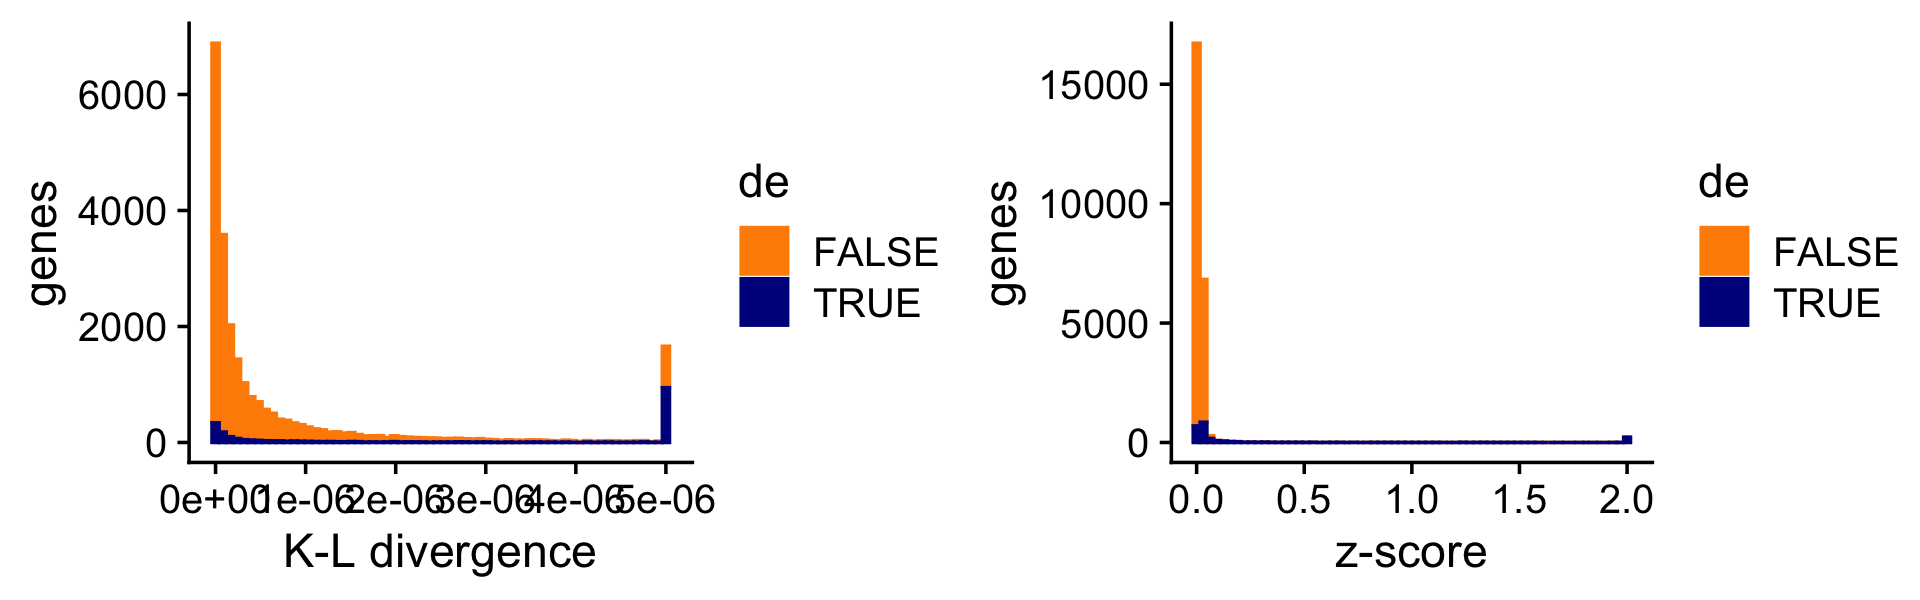
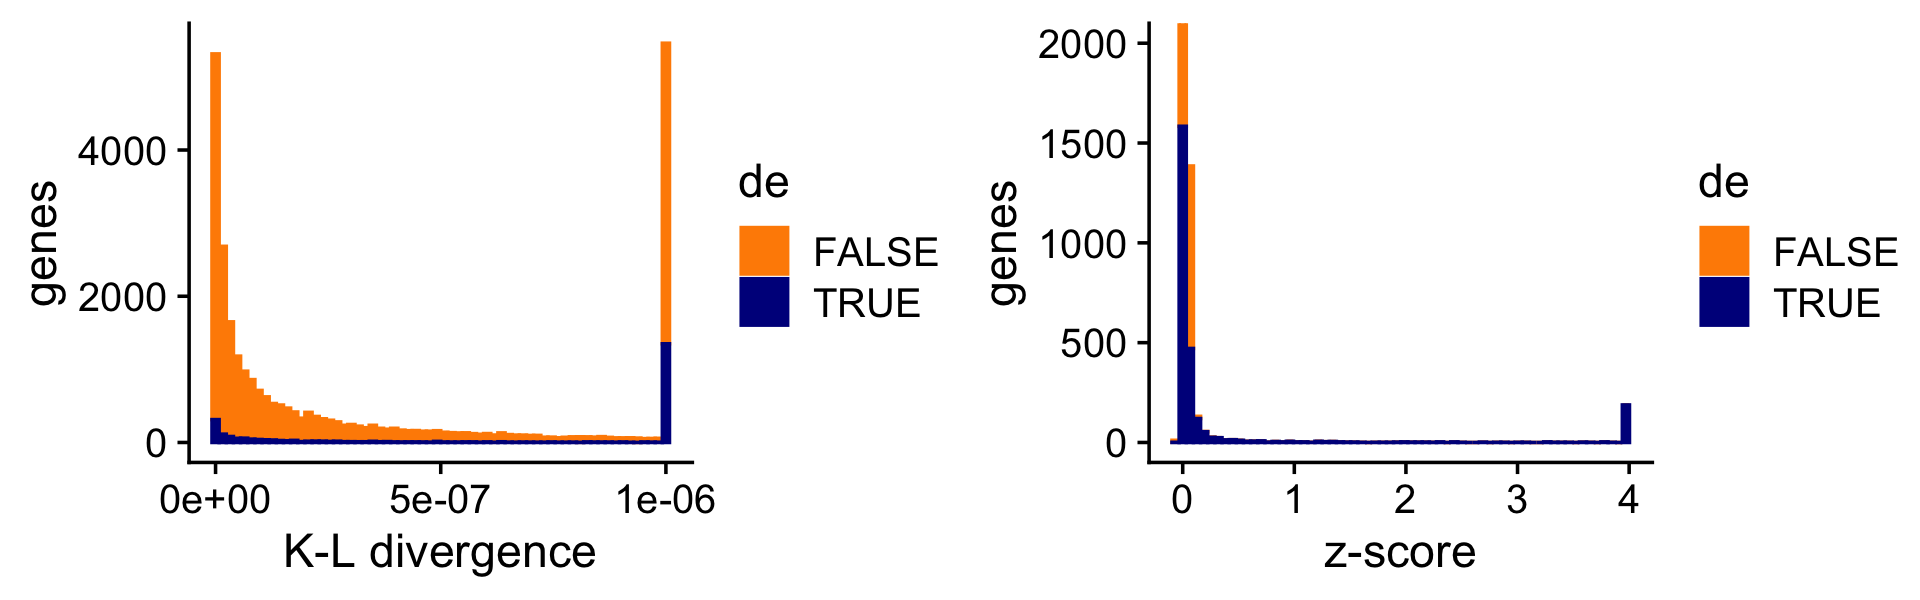
Fixed plots and added text to de_analysis_detailed_look_more analysis.

diff --git a/docs/de_analysis_detailed_look_more.html b/docs/de_analysis_detailed_look_more.html
@@ -426,16 +426,16 @@ fit-poisson-nmf
 <div class="panel panel-default">
 <div class="panel-heading">
 <p class="panel-title">
-<a data-toggle="collapse" data-parent="#workflowr-checks" href="#strongRepositoryversionstrongahrefhttpsgithubcomstephenslabsinglecelltopicstree503cca366a85e331949a323913caa7f4fd0f6515targetblank503cca3a"> <span class="glyphicon glyphicon-ok text-success" aria-hidden="true"></span> <strong>Repository version:</strong> <a href="https://github.com/stephenslab/single-cell-topics/tree/503cca366a85e331949a323913caa7f4fd0f6515" target="_blank">503cca3</a> </a>
+<a data-toggle="collapse" data-parent="#workflowr-checks" href="#strongRepositoryversionstrongahrefhttpsgithubcomstephenslabsinglecelltopicstreef746cb38c01345741ac11b701c409bf66da53902targetblankf746cb3a"> <span class="glyphicon glyphicon-ok text-success" aria-hidden="true"></span> <strong>Repository version:</strong> <a href="https://github.com/stephenslab/single-cell-topics/tree/f746cb38c01345741ac11b701c409bf66da53902" target="_blank">f746cb3</a> </a>
 </p>
 </div>
[2 lines of base64/hex data omitted]
 <div class="panel-body">
 <p>
 Great! You are using Git for version control. Tracking code development and connecting the code version to the results is critical for reproducibility.
 </p>
 <p>
-The results in this page were generated with repository version <a href="https://github.com/stephenslab/single-cell-topics/tree/503cca366a85e331949a323913caa7f4fd0f6515" target="_blank">503cca3</a>. See the <em>Past versions</em> tab to see a history of the changes made to the R Markdown and HTML files.
+The results in this page were generated with repository version <a href="https://github.com/stephenslab/single-cell-topics/tree/f746cb38c01345741ac11b701c409bf66da53902" target="_blank">f746cb3</a>. See the <em>Past versions</em> tab to see a history of the changes made to the R Markdown and HTML files.
 </p>
 <p>
 Note that you need to be careful to ensure that all relevant files for the analysis have been committed to Git prior to generating the results (you can use <code>wflow_publish</code> or <code>wflow_git_commit</code>). workflowr only checks the R Markdown file, but you know if there are other scripts or data files that it depends on. Below is the status of the Git repository when the results were generated:
@@ -499,6 +499,40 @@ Message
 </tr>
 </thead>
 <tbody>
+<tr>
+<td>
+Rmd
+</td>
+<td>
+<a href="https://github.com/stephenslab/single-cell-topics/blob/f746cb38c01345741ac11b701c409bf66da53902/analysis/de_analysis_detailed_look_more.Rmd" target="_blank">f746cb3</a>
+</td>
+<td>
+Peter Carbonetto
+</td>
+<td>
+2021-10-20
+</td>
+<td>
+workflowr::wflow_publish(“de_analysis_detailed_look_more.Rmd”)
+</td>
+</tr>
+<tr>
+<td>
+html
+</td>
+<td>
+<a href="https://rawcdn.githack.com/stephenslab/single-cell-topics/9d6104692d58c818b5d33f9f15a09630b59e7261/docs/de_analysis_detailed_look_more.html" target="_blank">9d61046</a>
+</td>
+<td>
+Peter Carbonetto
+</td>
+<td>
+2021-10-20
+</td>
+<td>
+Revised text and plots in de_analysis_detailed_look_more analysis.
+</td>
+</tr>
 <tr>
 <td>
 Rmd
@@ -745,7 +779,7 @@ de &lt;- de_analysis(fit,X,shrink.method = &quot;ash&quot;,control = list(ns = 1
 >knitr cache options</a> for more details.
 </p>
 </div>
-<p>To measure differential expression across multiple topics, we use the “least extreme” log-fold change, which, for topic <span class="math inline">\(k\)</span>, is defined as the LFC between topic <span class="math inline">\(k\)</span> and each other topic <span class="math inline">\(j \neq k\)</span> with a expression ratio closest to 1. Then we compare estimates of the “least extreme” LFCs with and without shrinkage.</p>
+<p>To measure differential expression across multiple topics, we use the “least extreme” log-fold change, which, for topic <span class="math inline">\(k\)</span>, is defined as the LFC between topic <span class="math inline">\(k\)</span> and <span class="math inline">\(j \neq k\)</span> such that the expression ratio is closest to 1. Then we compare estimates of the “least extreme” LFCs with and without shrinkage.</p>
 <p>As expected, smaller estimates, and estimates corresponding to genes with lower expression, tend to be more strongly shrunk toward zero.</p>
 <pre class="r"><code>pdat &lt;- data.frame(noshrink  = c(de.noshrink$postmean),
                    shrink    = c(de$postmean),
@@ -784,6 +818,17 @@ Date
 <tbody>
 <tr>
 <td>
+<a href="https://github.com/stephenslab/single-cell-topics/blob/9d6104692d58c818b5d33f9f15a09630b59e7261/docs/figure/de_analysis_detailed_look_more.Rmd/shrink-vs-noshrink-scatterplot-1.png" target="_blank">9d61046</a>
+</td>
+<td>
+Peter Carbonetto
+</td>
+<td>
+2021-10-20
+</td>
+</tr>
+<tr>
+<td>
 <a href="https://github.com/stephenslab/single-cell-topics/blob/36acb71112107faba6b3030aa762bc469fb2d51e/docs/figure/de_analysis_detailed_look_more.Rmd/shrink-vs-noshrink-scatterplot-1.png" target="_blank">36acb71</a>
 </td>
 <td>
@@ -811,7 +856,7 @@ pdat &lt;- data.frame(noshrink = clamp(c(de.noshrink$z),-4,+4),
                    de       = c(nonzero_lfc))
 p2 &lt;- ggplot(subset(pdat,de),aes(x = noshrink,color = de)) +
   geom_histogram(color = &quot;darkblue&quot;,fill = &quot;darkblue&quot;,bins = 64) +
-  coord_cartesian(xlim = c(-4,+4),,ylim = c(0,400)) +
+  coord_cartesian(xlim = c(-4,+4),ylim = c(0,400)) +
   labs(x = &quot;z-score&quot;,y = &quot;genes&quot;,title = &quot;without shrinkage&quot;) +
   theme_cowplot()
 p3 &lt;- ggplot(subset(pdat,de),aes(x = shrink,color = de)) +
@@ -853,6 +898,17 @@ Date
 </tr>
 </thead>
 <tbody>
+<tr>
+<td>
+<a href="https://github.com/stephenslab/single-cell-topics/blob/9d6104692d58c818b5d33f9f15a09630b59e7261/docs/figure/de_analysis_detailed_look_more.Rmd/shrink-vs-noshrink-zscores-1.png" target="_blank">9d61046</a>
+</td>
+<td>
+Peter Carbonetto
+</td>
+<td>
+2021-10-20
+</td>
+</tr>
 <tr>
 <td>
 <a href="https://github.com/stephenslab/single-cell-topics/blob/36acb71112107faba6b3030aa762bc469fb2d51e/docs/figure/de_analysis_detailed_look_more.Rmd/shrink-vs-noshrink-zscores-1.png" target="_blank">36acb71</a>
@@ -912,6 +968,17 @@ Date
 <tbody>
 <tr>
 <td>
+<a href="https://github.com/stephenslab/single-cell-topics/blob/9d6104692d58c818b5d33f9f15a09630b59e7261/docs/figure/de_analysis_detailed_look_more.Rmd/shrink-vs-noshrink-pvalues-1.png" target="_blank">9d61046</a>
+</td>
+<td>
+Peter Carbonetto
+</td>
+<td>
+2021-10-20
+</td>
+</tr>
+<tr>
+<td>
 <a href="https://github.com/stephenslab/single-cell-topics/blob/36acb71112107faba6b3030aa762bc469fb2d51e/docs/figure/de_analysis_detailed_look_more.Rmd/shrink-vs-noshrink-pvalues-1.png" target="_blank">36acb71</a>
 </td>
 <td>
@@ -925,15 +992,16 @@ Peter Carbonetto
 </table>
 </div>
 </div>
-<p>Both the <span class="math inline">\(z\)</span>-score and <span class="math inline">\(p\)</span>-value plots show that the adaptive shrinkage step more strongly encourages the LFC estimates for the non-DE genes toward zero, thereby improving overall accuracy.</p>
+<p>Since most of the LFCs are zero, the adaptiev shrinkage strongly shrinks most of the LFC estimates toward zero. Still, because it is adaptive, the DE genes with stronger support are shrunk only a little or not at all.</p>
 </div>
 <div id="quantifying-uncertainty-in-the-lfc-estimates" class="section level2">
 <h2>Quantifying uncertainty in the LFC estimates</h2>
-<p><em>Add text here.</em></p>
+<p>Here we briefly assess the benefits of accounting for uncertainty in the LFC estimates. The benefits are more pronounced here because more topics brings more uncertainty to the estimates.</p>
+<p>First we compare the point estimates to the (shrunk) posterior mean estimates:</p>
 <pre class="r"><code>pdat &lt;- data.frame(est       = c(de$est),
                    shrink    = c(de$postmean),
                    log10mean = rep(log10(de$f0),k))
-p6 &lt;- ggplot(pdat,aes(x = est,y = shrink,fill = log10mean)) +
+p8 &lt;- ggplot(pdat,aes(x = est,y = shrink,fill = log10mean)) +
   geom_point(shape = 21,color = &quot;white&quot;,size = 2) +
   geom_abline(intercept = 0,slope = 1,color = &quot;black&quot;,linetype = &quot;dotted&quot;) +
   scale_fill_gradient2(low = &quot;deepskyblue&quot;,mid = &quot;gold&quot;,high = &quot;orangered&quot;,
@@ -941,7 +1009,7 @@ p6 &lt;- ggplot(pdat,aes(x = est,y = shrink,fill = log10mean)) +
   labs(x = &quot;point estimates&quot;,
        y = &quot;shrunken estimates&quot;) +
   theme_cowplot()
-print(p6)</code></pre>
+print(p8)</code></pre>
 <p><img src="figure/de_analysis_detailed_look_more.Rmd/point-vs-shrunken-scatterplot-1.png" width="960" style="display: block; margin: auto;" /></p>
 <p>
 <button type="button" class="btn btn-default btn-xs btn-workflowr btn-workflowr-fig" data-toggle="collapse" data-target="#fig-point-vs-shrunken-scatterplot-1">
@@ -980,21 +1048,24 @@ Peter Carbonetto
 </table>
 </div>
 </div>
-<p><em>Add text here.</em></p>
+<p>As before, even very large (in magnitude) point estimates are sometimes shrunk to zero; this happens because although the MLEs can be far from zero, the HPD intervals are also very large.</p>
+<p>Now we compare a ranking of the LFCs based on the K-L divergence measure used in Dey, Hsiao &amp; Stephens (2017), which doesn’t fully account for uncertainty in the LFC estimates, to a ranking based on the <span class="math inline">\(z\)</span>-scores. Since the K-L divergence is not a signed ranking, here we restrict our attention to LFCs estimated to be positive. (The Y axis in the right-hand plot has been cut off at 2,000 genes to give more detail to the distribution of the true positives.)</p>
 <pre class="r"><code>D     &lt;- fastTopics:::min_kl_poisson(fit$F)
-i     &lt;- which(de$z &gt; 0)
-pdat1 &lt;- data.frame(kl = pmin(D[i],5e-6),de = factor(nonzero_lfc[i]))
-pdat2 &lt;- data.frame(z = clamp(de$z[i],-2,+2),de = factor(nonzero_lfc[i]))
+i     &lt;- which(de$est &gt; 0)
+pdat1 &lt;- data.frame(kl = pmin(D[i],1e-6),de = factor(nonzero_lfc[i]))
+pdat2 &lt;- data.frame(z = clamp(de$z[i],-4,+4),de = factor(nonzero_lfc[i]))
 p7 &lt;- ggplot(pdat1,aes(x = kl,color = de,fill = de)) +
   geom_histogram(bins = 64) +
   scale_color_manual(values = c(&quot;darkorange&quot;,&quot;darkblue&quot;)) +
   scale_fill_manual(values = c(&quot;darkorange&quot;,&quot;darkblue&quot;)) +
+  scale_x_continuous(breaks = seq(0,1e-6,length.out = 3)) +
   labs(x = &quot;K-L divergence&quot;,y = &quot;genes&quot;) +
   theme_cowplot()
 p8 &lt;- ggplot(pdat2,aes(x = z,color = de,fill = de)) +
   geom_histogram(bins = 64) +
   scale_color_manual(values = c(&quot;darkorange&quot;,&quot;darkblue&quot;)) +
   scale_fill_manual(values = c(&quot;darkorange&quot;,&quot;darkblue&quot;)) +
+  coord_cartesian(ylim = c(0,2000)) +
   labs(x = &quot;z-score&quot;,y = &quot;genes&quot;) +
   theme_cowplot()
 print(plot_grid(p7,p8))</code></pre>
@@ -1036,52 +1107,7 @@ Peter Carbonetto
 </table>
 </div>
 </div>
-<p><em>Add text here.</em></p>
-<pre class="r"><code>p9  &lt;- p7 + scale_x_continuous(limits = 1e-6 * c(0.5,5.1))
-p10 &lt;- p8 + scale_x_continuous(limits = c(0.05,2.1))
-print(plot_grid(p9,p10))
-# Warning: Removed 16305 rows containing non-finite values (stat_bin).
-# Warning: Removed 4 rows containing missing values (geom_bar).
-# Warning: Removed 23604 rows containing non-finite values (stat_bin).
-# Warning: Removed 4 rows containing missing values (geom_bar).</code></pre>
-<p><img src="figure/de_analysis_detailed_look_more.Rmd/kl-vs-fasttopics-2-1.png" width="960" style="display: block; margin: auto;" /></p>
-<p>
-<button type="button" class="btn btn-default btn-xs btn-workflowr btn-workflowr-fig" data-toggle="collapse" data-target="#fig-kl-vs-fasttopics-2-1">
-Past versions of kl-vs-fasttopics-2-1.png
-</button>
-</p>
-<div id="fig-kl-vs-fasttopics-2-1" class="collapse">
-<div class="table-responsive">
-<table class="table table-condensed table-hover">
-<thead>
-<tr>
-<th>
-Version
-</th>
-<th>
-Author
-</th>
-<th>
-Date
-</th>
-</tr>
-</thead>
-<tbody>
-<tr>
-<td>
-<a href="https://github.com/stephenslab/single-cell-topics/blob/36acb71112107faba6b3030aa762bc469fb2d51e/docs/figure/de_analysis_detailed_look_more.Rmd/kl-vs-fasttopics-2-1.png" target="_blank">36acb71</a>
-</td>
-<td>
-Peter Carbonetto
-</td>
-<td>
-2021-10-20
-</td>
-</tr>
-</tbody>
-</table>
-</div>
-</div>
+<p>What is most striking is that the K-L divergence measure produces a long tail of false positives, and this goes away once we compute <span class="math inline">\(z\)</span>-scores that more properly account for uncertainty in the LFC estimates.</p>
 <br>
 <p>
 <button type="button" class="btn btn-default btn-workflowr btn-workflowr-sessioninfo" data-toggle="collapse" data-target="#workflowr-sessioninfo" style="display: block;">
